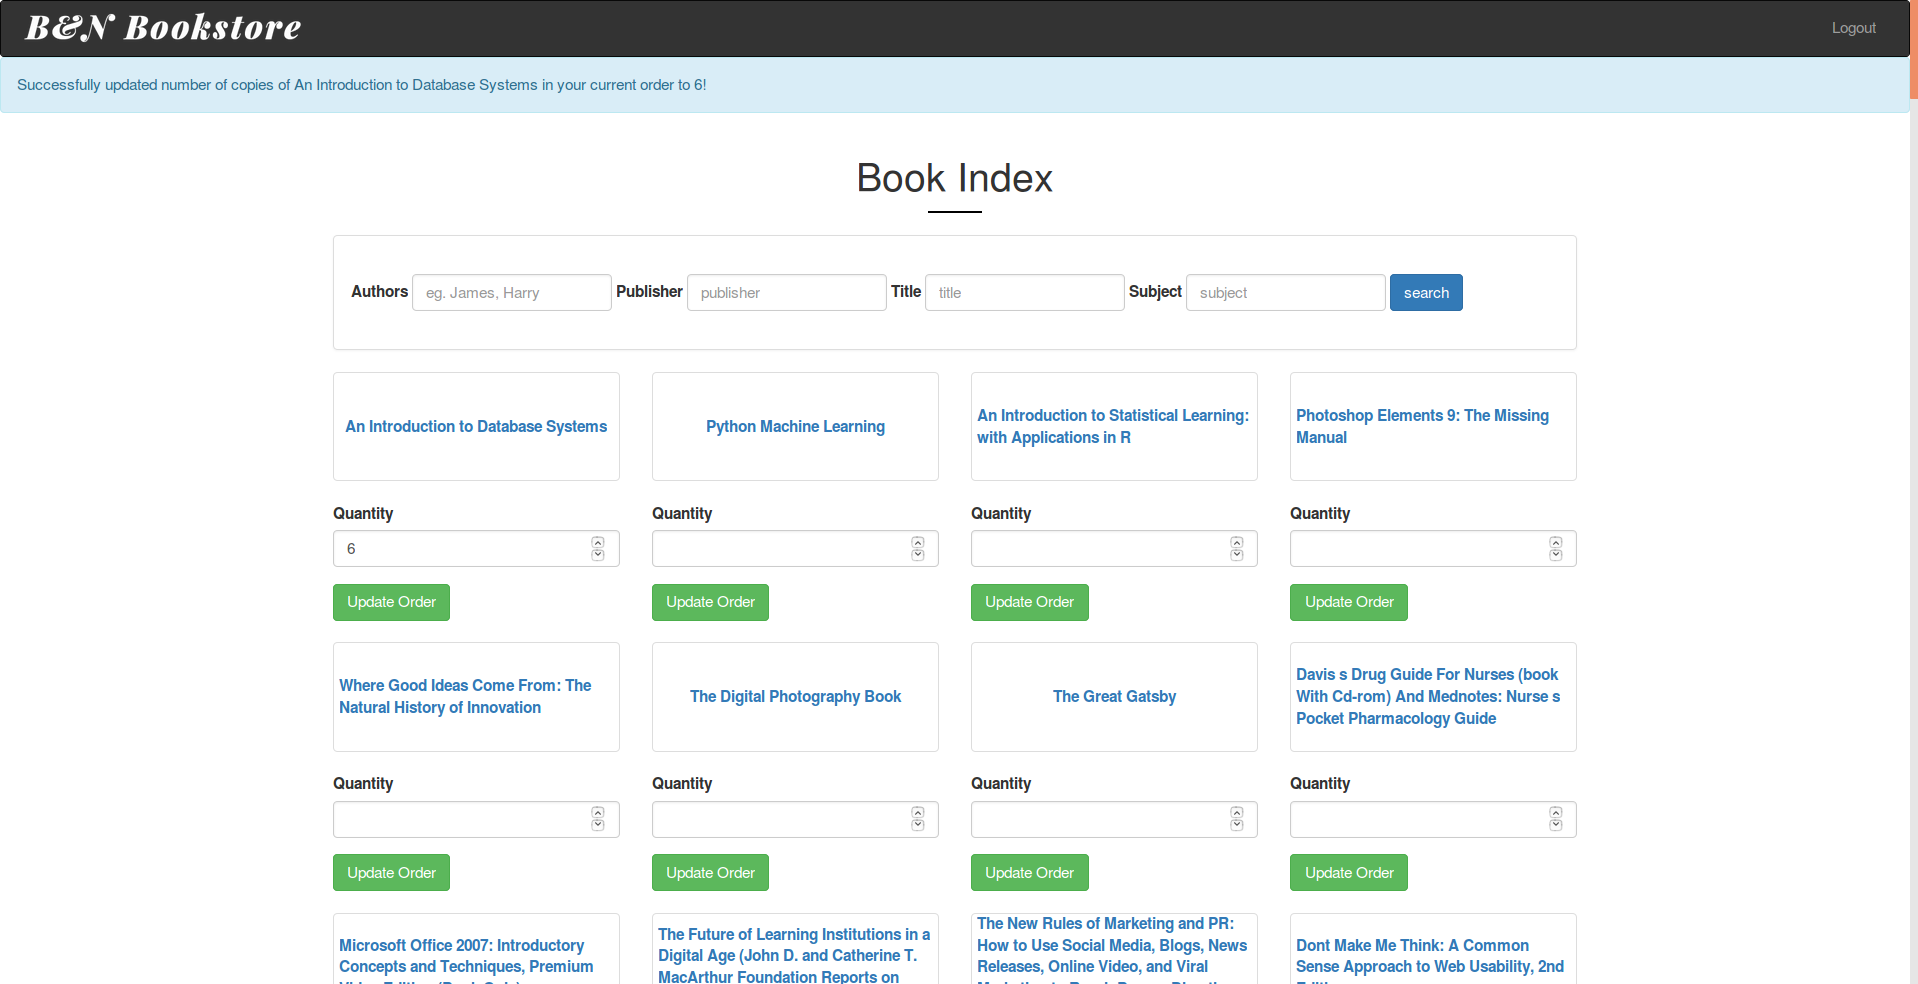
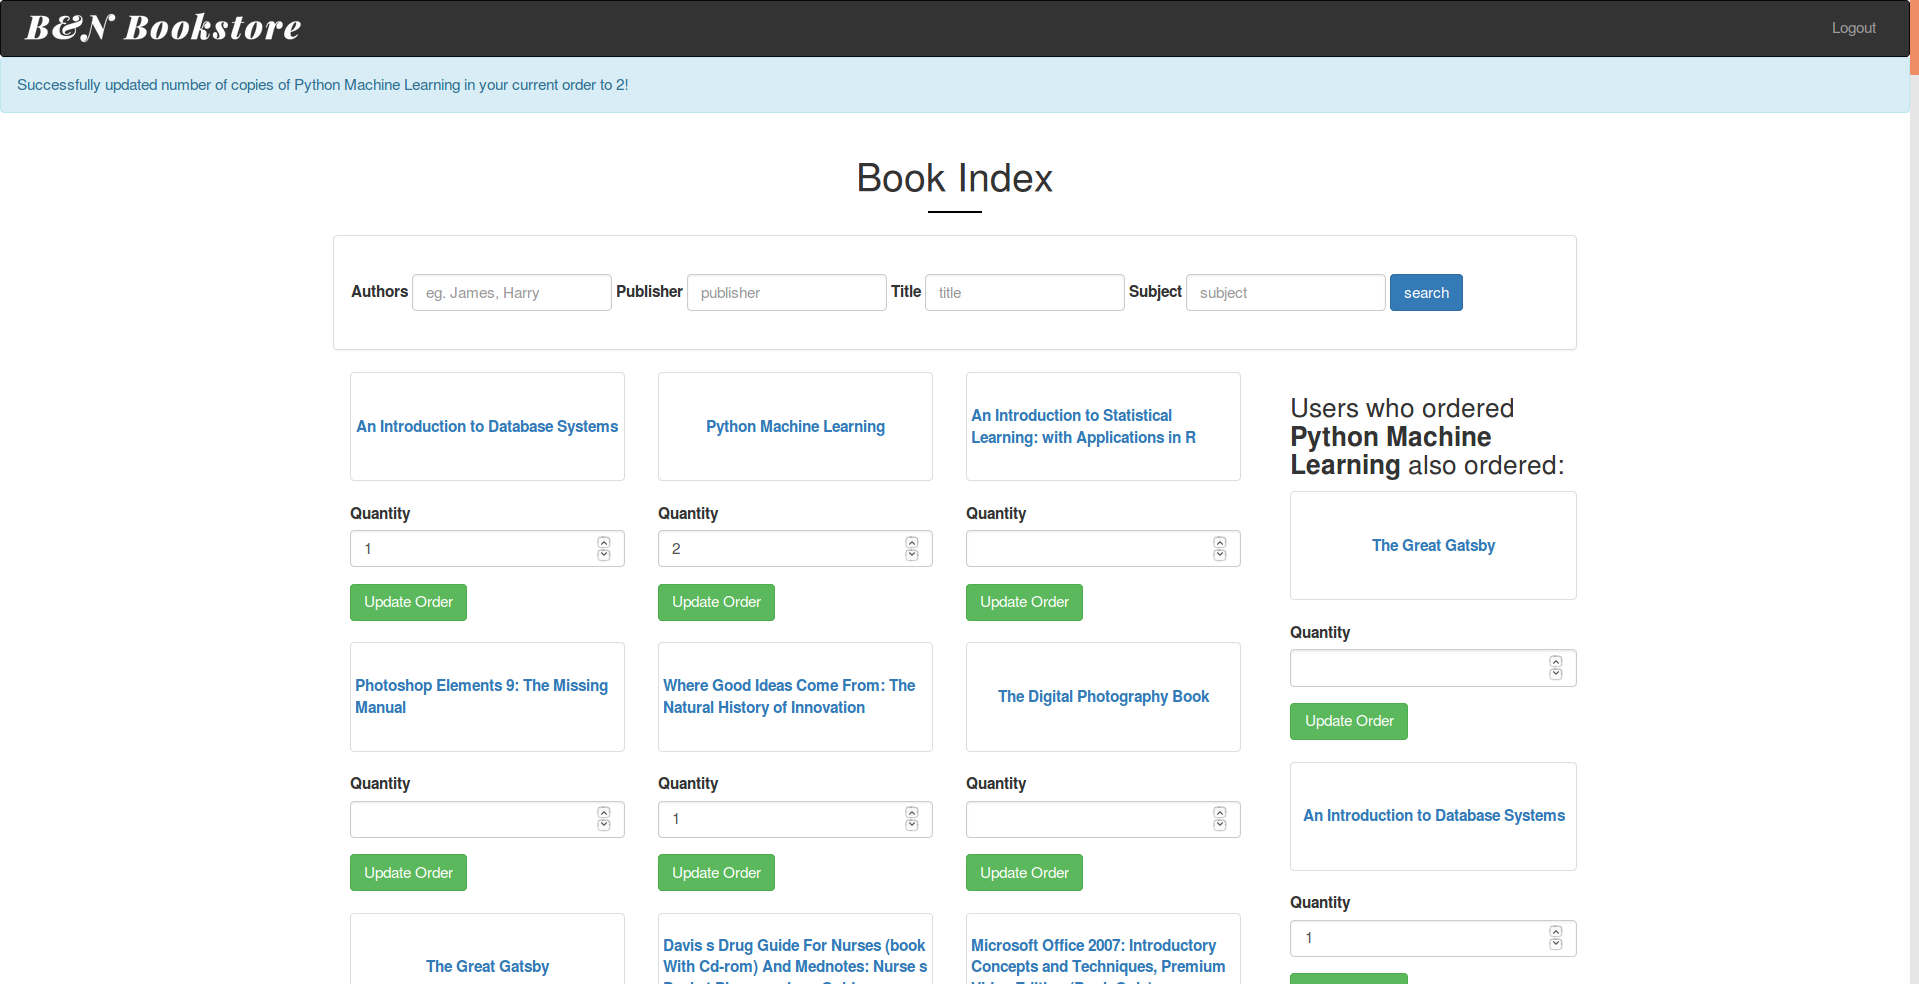
Change recommended books to show up in right column; update screenshot of book order to show recommendation

diff --git a/app/templates/my/book/index.html b/app/templates/my/book/index.html
@@ -38,49 +38,70 @@
         </div>
       </div>
 
-      <div class="row">
-        {% for book in books %}
-        <div class="col-md-3">
-          <a href="{{ url_for('my.show_book', ISBN=book.ISBN)}}" class="thumbnail">
-            <strong>{{ book.title }}</strong>
-          </a>
-
-          {% if order_in_progress %}
-            <form method="POST" action="{{ url_for('my.update_order', order_id=order_in_progress.id) }}">
-              {{ add_book_to_order_forms[loop.index0].csrf_token }}
-              {{ add_book_to_order_forms[loop.index0].isbn(value="{}".format(book.ISBN)) }}
-              {{ render_field(add_book_to_order_forms[loop.index0].quantity, class="form-control", type="number", min=1, value=order_in_progress.books_orders.filter_by(book=book).first().quantity) }}
-              <input type="submit" class="btn btn-success" value="Update Order">
-            </form>
-          {% endif %}
-        </div>
-        {% endfor %}
-      </div>
-
       {% if recommended_books %}
 
         <div class="row">
-          <div class="col-md-12">
-            <h3>Users who ordered <strong>{{ ordered_book.title }}</strong> also ordered:</h3>
+
+          <div class = "col-md-9">
+            {% for book in books %}
+              <div class="col-md-4">
+                <a href="{{ url_for('my.show_book', ISBN=book.ISBN)}}" class="thumbnail">
+                  <strong>{{ book.title }}</strong>
+                </a>
+
+                {% if order_in_progress %}
+                  <form method="POST" action="{{ url_for('my.update_order', order_id=order_in_progress.id) }}">
+                    {{ add_book_to_order_forms[loop.index0].csrf_token }}
+                    {{ add_book_to_order_forms[loop.index0].isbn(value="{}".format(book.ISBN)) }}
+                    {{ render_field(add_book_to_order_forms[loop.index0].quantity, class="form-control", type="number", min=1, value=order_in_progress.books_orders.filter_by(book=book).first().quantity) }}
+                    <input type="submit" class="btn btn-success" value="Update Order">
+                  </form>
+                {% endif %}
+              </div>
+            {% endfor %}
           </div>
 
-          {% for recommended_book in recommended_books %}
           <div class="col-md-3">
-            <a href="{{ url_for('my.show_book', ISBN=recommended_book.ISBN) }}" class="thumbnail">
-              <strong>{{ recommended_book.title }}</strong>
-            </a>
+            <h3>Users who ordered <strong>{{ ordered_book.title }}</strong> also ordered:</h3>
 
-            {% if order_in_progress %}
-              <form method="POST" action="{{ url_for('my.update_order', order_id=order_in_progress.id) }}">
-                {{ recommended_books_order_forms[loop.index0].csrf_token }}
-                {{ recommended_books_order_forms[loop.index0].isbn(value="{}".format(recommended_book.ISBN)) }}
-                {{ render_field(recommended_books_order_forms[loop.index0].quantity, class="form-control", type="number", min=1, value=order_in_progress.books_orders.filter_by(book=recommended_book).first().quantity) }}
-                <input type="submit" class="btn btn-success" value="Update Order">
-              </form>
-            {% endif %}
+            {% for recommended_book in recommended_books %}
+              <a href="{{ url_for('my.show_book', ISBN=recommended_book.ISBN) }}" class="thumbnail">
+                <strong>{{ recommended_book.title }}</strong>
+              </a>
+
+              {% if order_in_progress %}
+                <form method="POST" action="{{ url_for('my.update_order', order_id=order_in_progress.id) }}">
+                  {{ recommended_books_order_forms[loop.index0].csrf_token }}
+                  {{ recommended_books_order_forms[loop.index0].isbn(value="{}".format(recommended_book.ISBN)) }}
+                  {{ render_field(recommended_books_order_forms[loop.index0].quantity, class="form-control", type="number", min=1, value=order_in_progress.books_orders.filter_by(book=recommended_book).first().quantity) }}
+                  <input type="submit" class="btn btn-success" value="Update Order">
+                </form>
+              {% endif %}
+            {% endfor %}
           </div>
-          {% endfor %}
+
         </div>
+
+      {% else %}
+
+        <div class="row">
+
+          {% for book in books %}
+            <div class="col-md-3">
+              <a href="{{ url_for('my.show_book', ISBN=book.ISBN)}}" class="thumbnail">
+                <strong>{{ book.title }}</strong>
+              </a>
+
+              {% if order_in_progress %}
+                <form method="POST" action="{{ url_for('my.update_order', order_id=order_in_progress.id) }}">
+                  {{ add_book_to_order_forms[loop.index0].csrf_token }}
+                  {{ add_book_to_order_forms[loop.index0].isbn(value="{}".format(book.ISBN)) }}
+                  {{ render_field(add_book_to_order_forms[loop.index0].quantity, class="form-control", type="number", min=1, value=order_in_progress.books_orders.filter_by(book=book).first().quantity) }}
+                  <input type="submit" class="btn btn-success" value="Update Order">
+                </form>
+              {% endif %}
+            </div>
+          {% endfor %}
 
       {% endif %}
 
